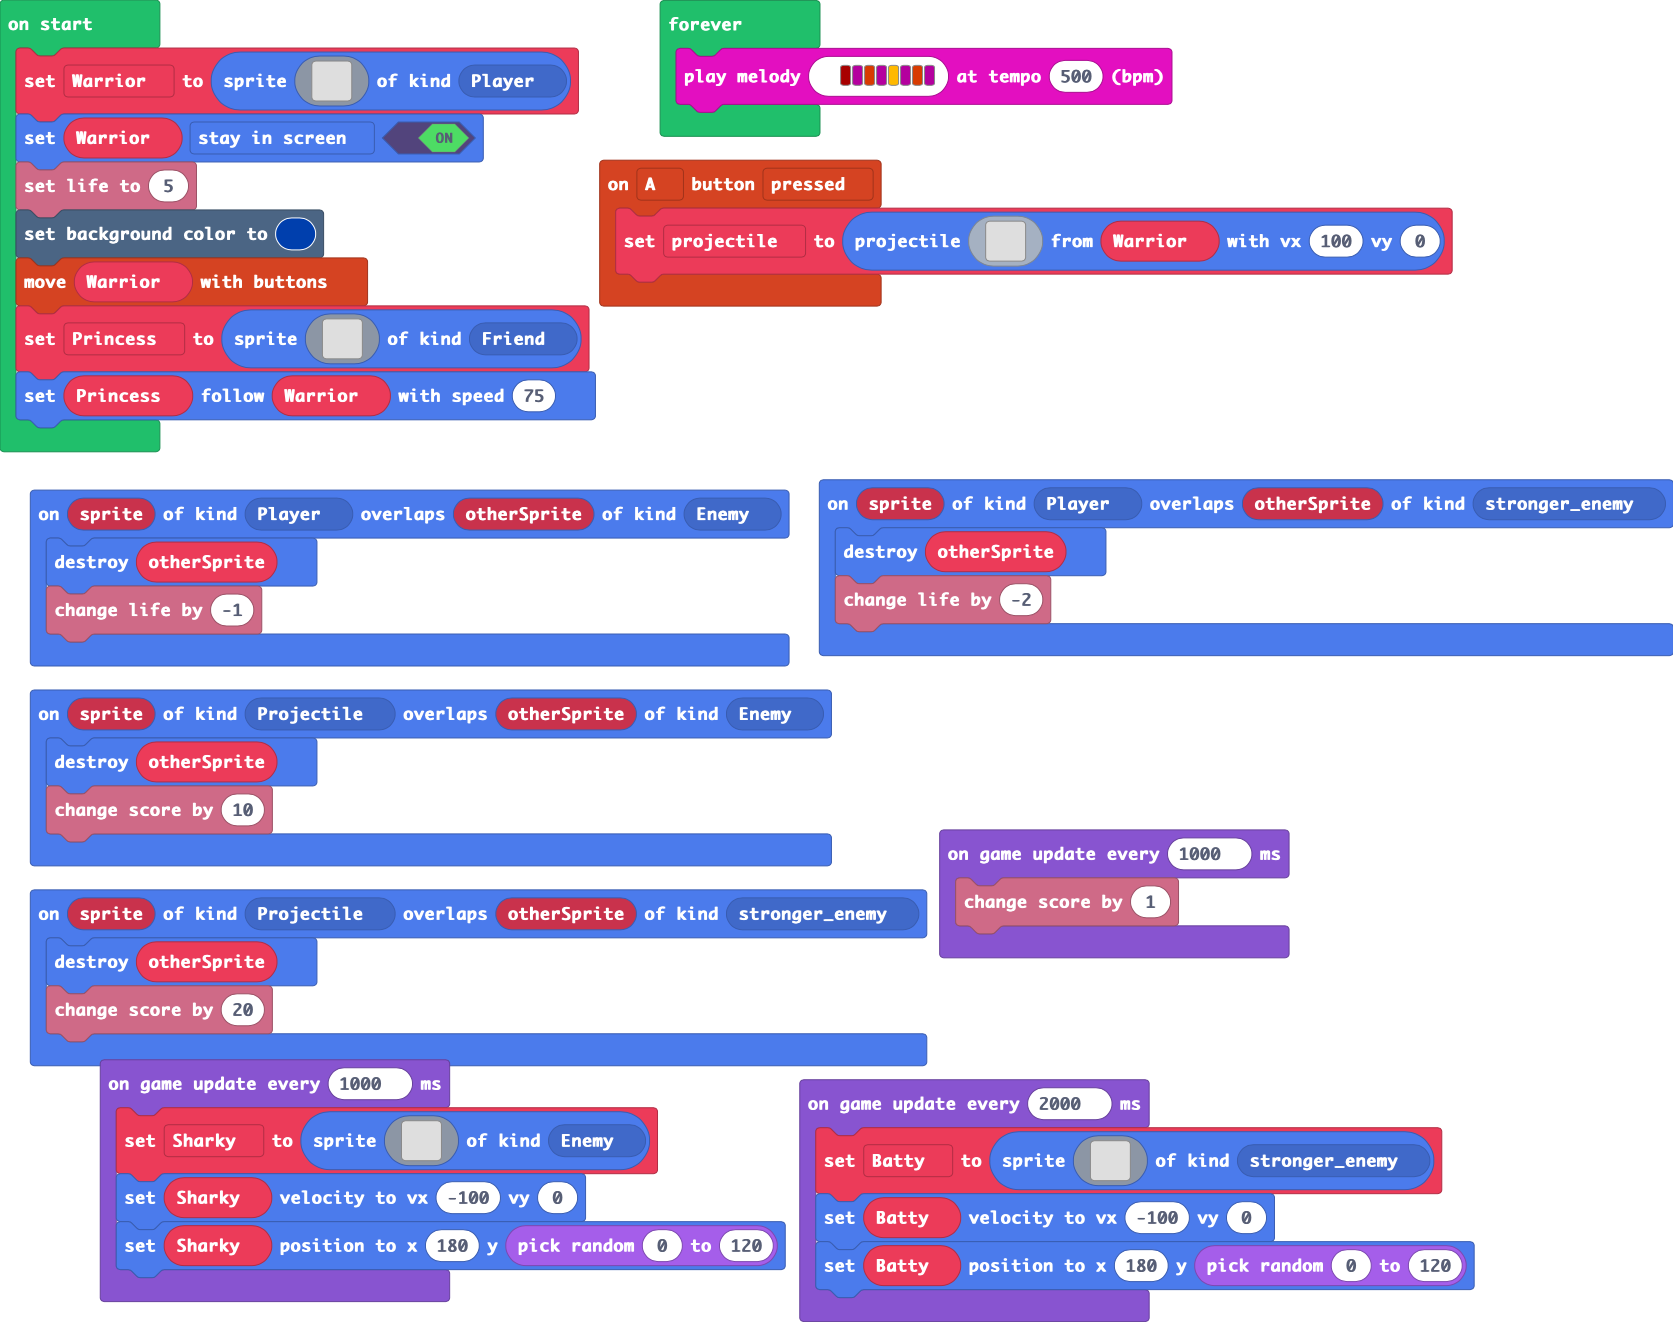
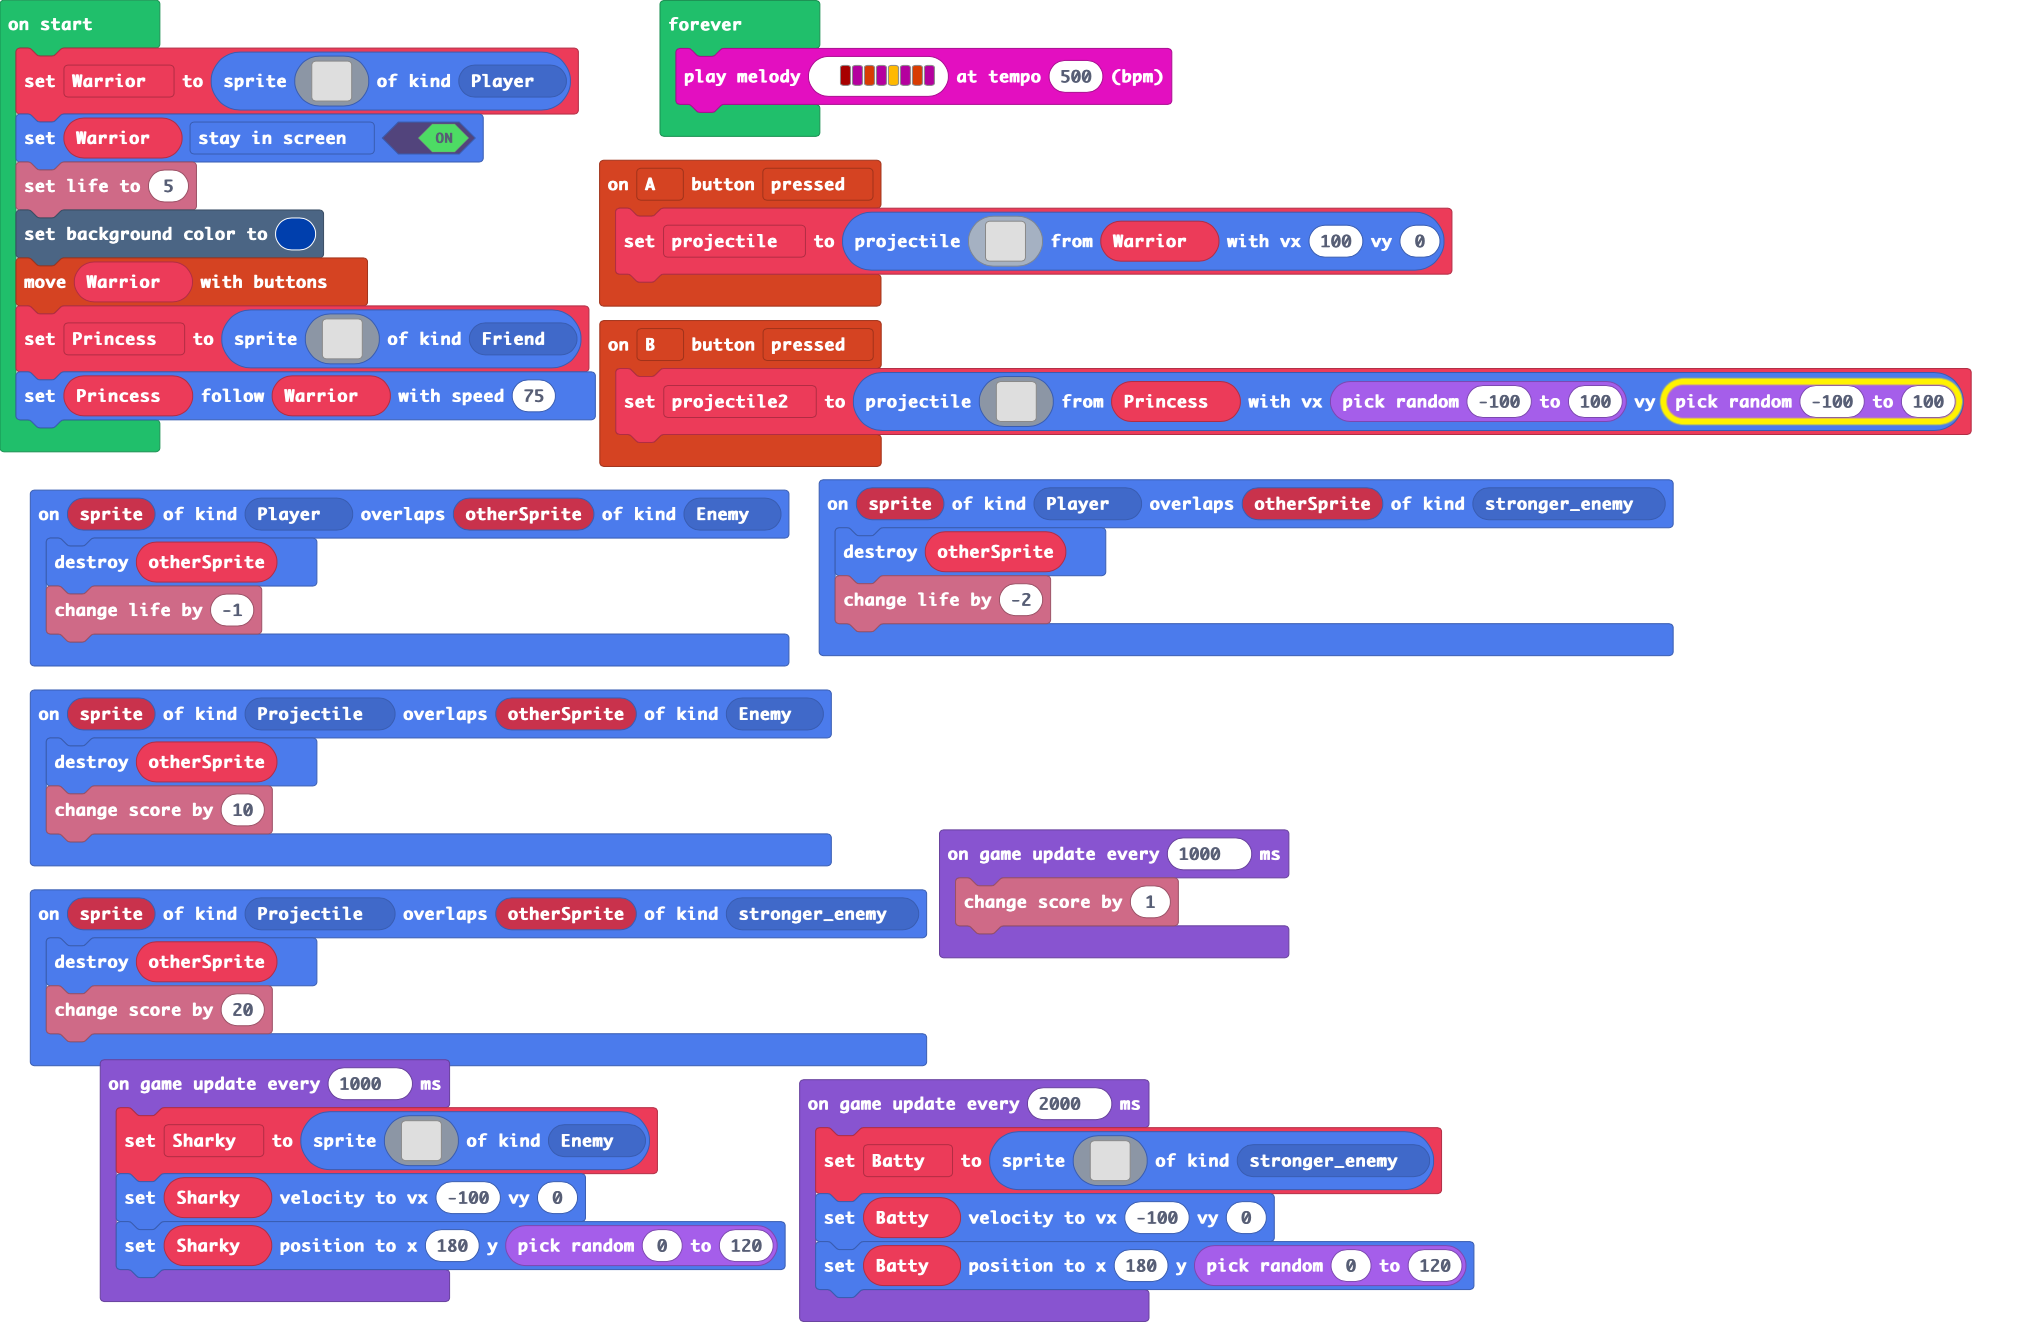
Update 2.1 DOG IS HERE!

diff --git a/main.ts b/main.ts
@@ -2,6 +2,24 @@ namespace SpriteKind {
     export const stronger_enemy = SpriteKind.create()
     export const Friend = SpriteKind.create()
 }
+controller.B.onEvent(ControllerButtonEvent.Pressed, function () {
+    projectile2 = sprites.createProjectileFromSprite(img`
+        . . 4 4 4 . . . . 4 4 4 . . . . 
+        . 4 5 5 5 e . . e 5 5 5 4 . . . 
+        4 5 5 5 5 5 e e 5 5 5 5 5 4 . . 
+        4 5 5 4 4 5 5 5 5 4 4 5 5 4 . . 
+        e 5 4 4 5 5 5 5 5 5 4 4 5 e . . 
+        . e e 5 5 5 5 5 5 5 5 e e . . . 
+        . . e 5 f 5 5 5 5 f 5 e . . . . 
+        . . f 5 5 5 4 4 5 5 5 f . . f f 
+        . . f 4 5 5 f f 5 5 6 f . f 5 f 
+        . . . f 6 6 6 6 6 6 4 4 f 5 5 f 
+        . . . f 4 5 5 5 5 5 5 4 4 5 f . 
+        . . . f 5 5 5 5 5 4 5 5 f f . . 
+        . . . f 5 f f f 5 f f 5 f . . . 
+        . . . f f . . f f . . f f . . . 
+        `, Princess, randint(-100, 100), randint(-100, 100))
+})
 sprites.onOverlap(SpriteKind.Player, SpriteKind.stronger_enemy, function (sprite, otherSprite) {
     otherSprite.destroy()
     info.changeLifeBy(-2)
@@ -41,6 +59,8 @@ sprites.onOverlap(SpriteKind.Player, SpriteKind.Enemy, function (sprite, otherSp
 let Sharky: Sprite = null
 let Batty: Sprite = null
 let projectile: Sprite = null
+let projectile2: Sprite = null
+let Princess: Sprite = null
 let Warrior: Sprite = null
 Warrior = sprites.create(img`
     . . . . . . f f f f . . . . . . 
@@ -64,7 +84,7 @@ Warrior.setFlag(SpriteFlag.StayInScreen, true)
 info.setLife(5)
 scene.setBackgroundColor(8)
 controller.moveSprite(Warrior)
-let Princess = sprites.create(img`
+Princess = sprites.create(img`
     . . . . . f f 4 4 f f . . . . . 
     . . . . f 5 4 5 5 4 5 f . . . . 
     . . . f e 4 5 5 5 5 4 e f . . . 
